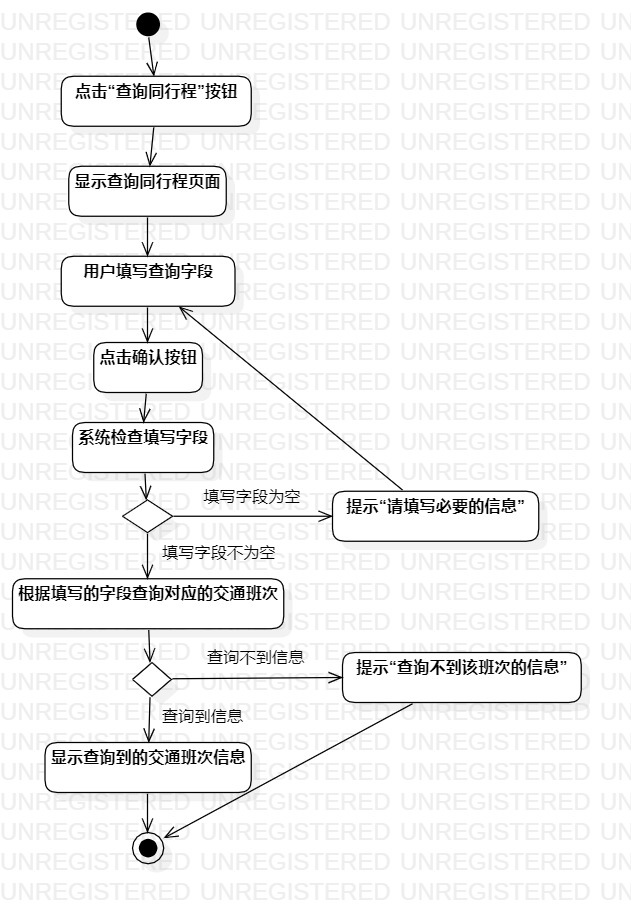
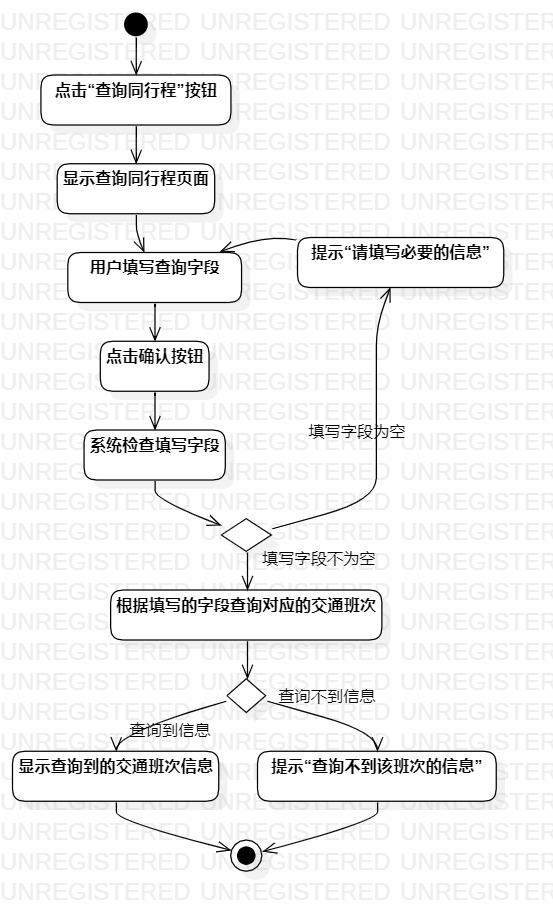
#6 #481 提交实验六报告并修改之前的报告

diff --git a/students/1714080901129/lab2.md b/students/1714080901129/lab2.md
@@ -45,10 +45,11 @@
 基本流程  |1.用户点击“查询同行程”按钮  |*用例执行成功的步骤*    
 ~| 2. 系统显示行程查询页面  |   
 ~| 3. 用户填写“查询地区”，“交通方式”，“航班号/车次”，“选择日期区间”等字段 |   
-~| 4. 系统根据填写的字段查询对应的交通班次  |   
-~| 5. 系统显示查询到的交通班次的信息  |  
+~| 4. 用户点击“确认”按钮  | 
+~| 5. 系统根据填写的字段查询对应的交通班次  |   
+~| 6. 系统显示查询到的交通班次的信息  |  
 扩展流程  | 3.1 系统检测到填写字段全为空，显示“请填写必要的信息” |*用例执行失败*
-~| 4.1 系统查询不到有效信息，显示“查询不到该班次信息” |*用例执行失败*    
+~| 5.1 系统查询不到有效信息，显示“查询不到该班次信息” |*用例执行失败*    
 ## 表三：预约口罩用例规范
 用例编号  | UC03 | 备注  
 -|:-|-  
@@ -58,6 +59,9 @@
 基本流程  |1.用户点击“预约口罩”按钮  |*用例执行成功的步骤*    
 ~| 2. 系统显示口罩预约的页面  |   
 ~| 3. 用户填写所在地区和个人信息  |   
-~| 4. 系统根据信息查找到该地区还有口罩库存，修改口罩库存数量，保存用户输入的信息  |   
-~| 5. 系统显示“口罩预约成功”  |  
-扩展流程  | 4.1 系统查找到该地区没有口罩库存，显示“抱歉，今日口罩已预约完”。 |*用例执行失败*    
+~| 4. 用户点击“确认”按钮  | 
+~| 5. 系统检查输入的信息  | 
+~| 6. 系统根据信息查找到该地区还有口罩库存，修改口罩库存数量，保存用户输入的信息，生成预约订单  |   
+~| 7. 系统显示预约订单信息  |  
+扩展流程  | 5.1 系统检查到输入的信息为空，提示“输入信息不能为空” |*用例执行失败*    
+| 6.1 系统查找到该地区没有口罩库存，显示“抱歉，今日口罩已预约完”。 |*用例执行失败*   
